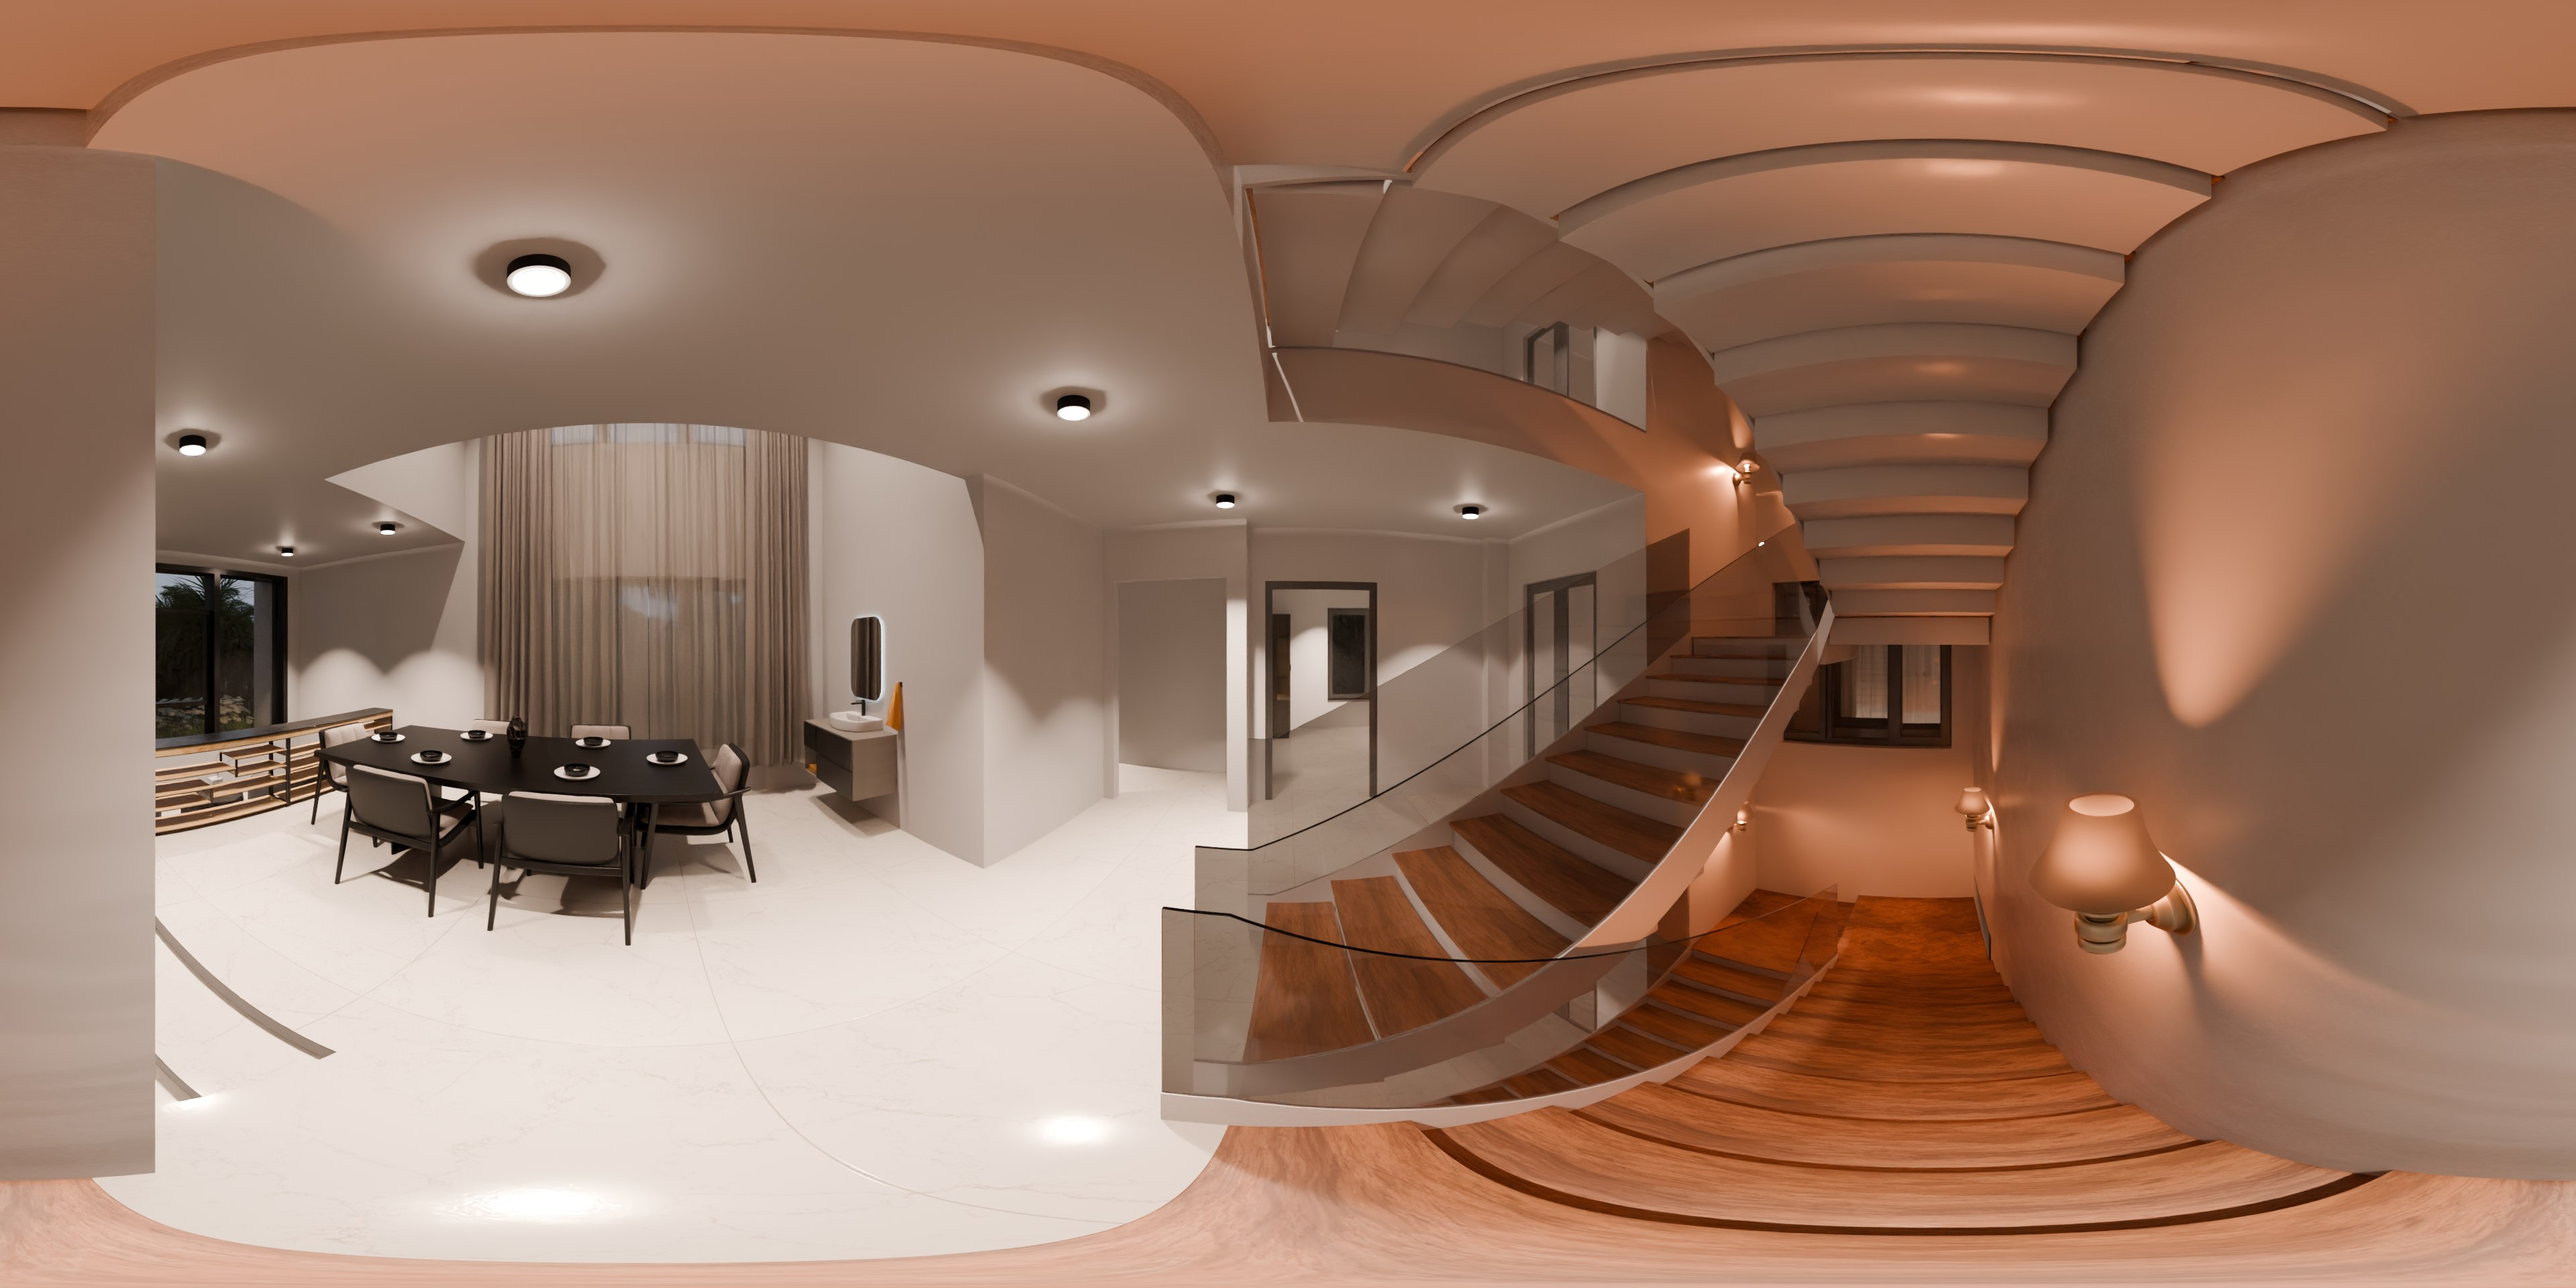
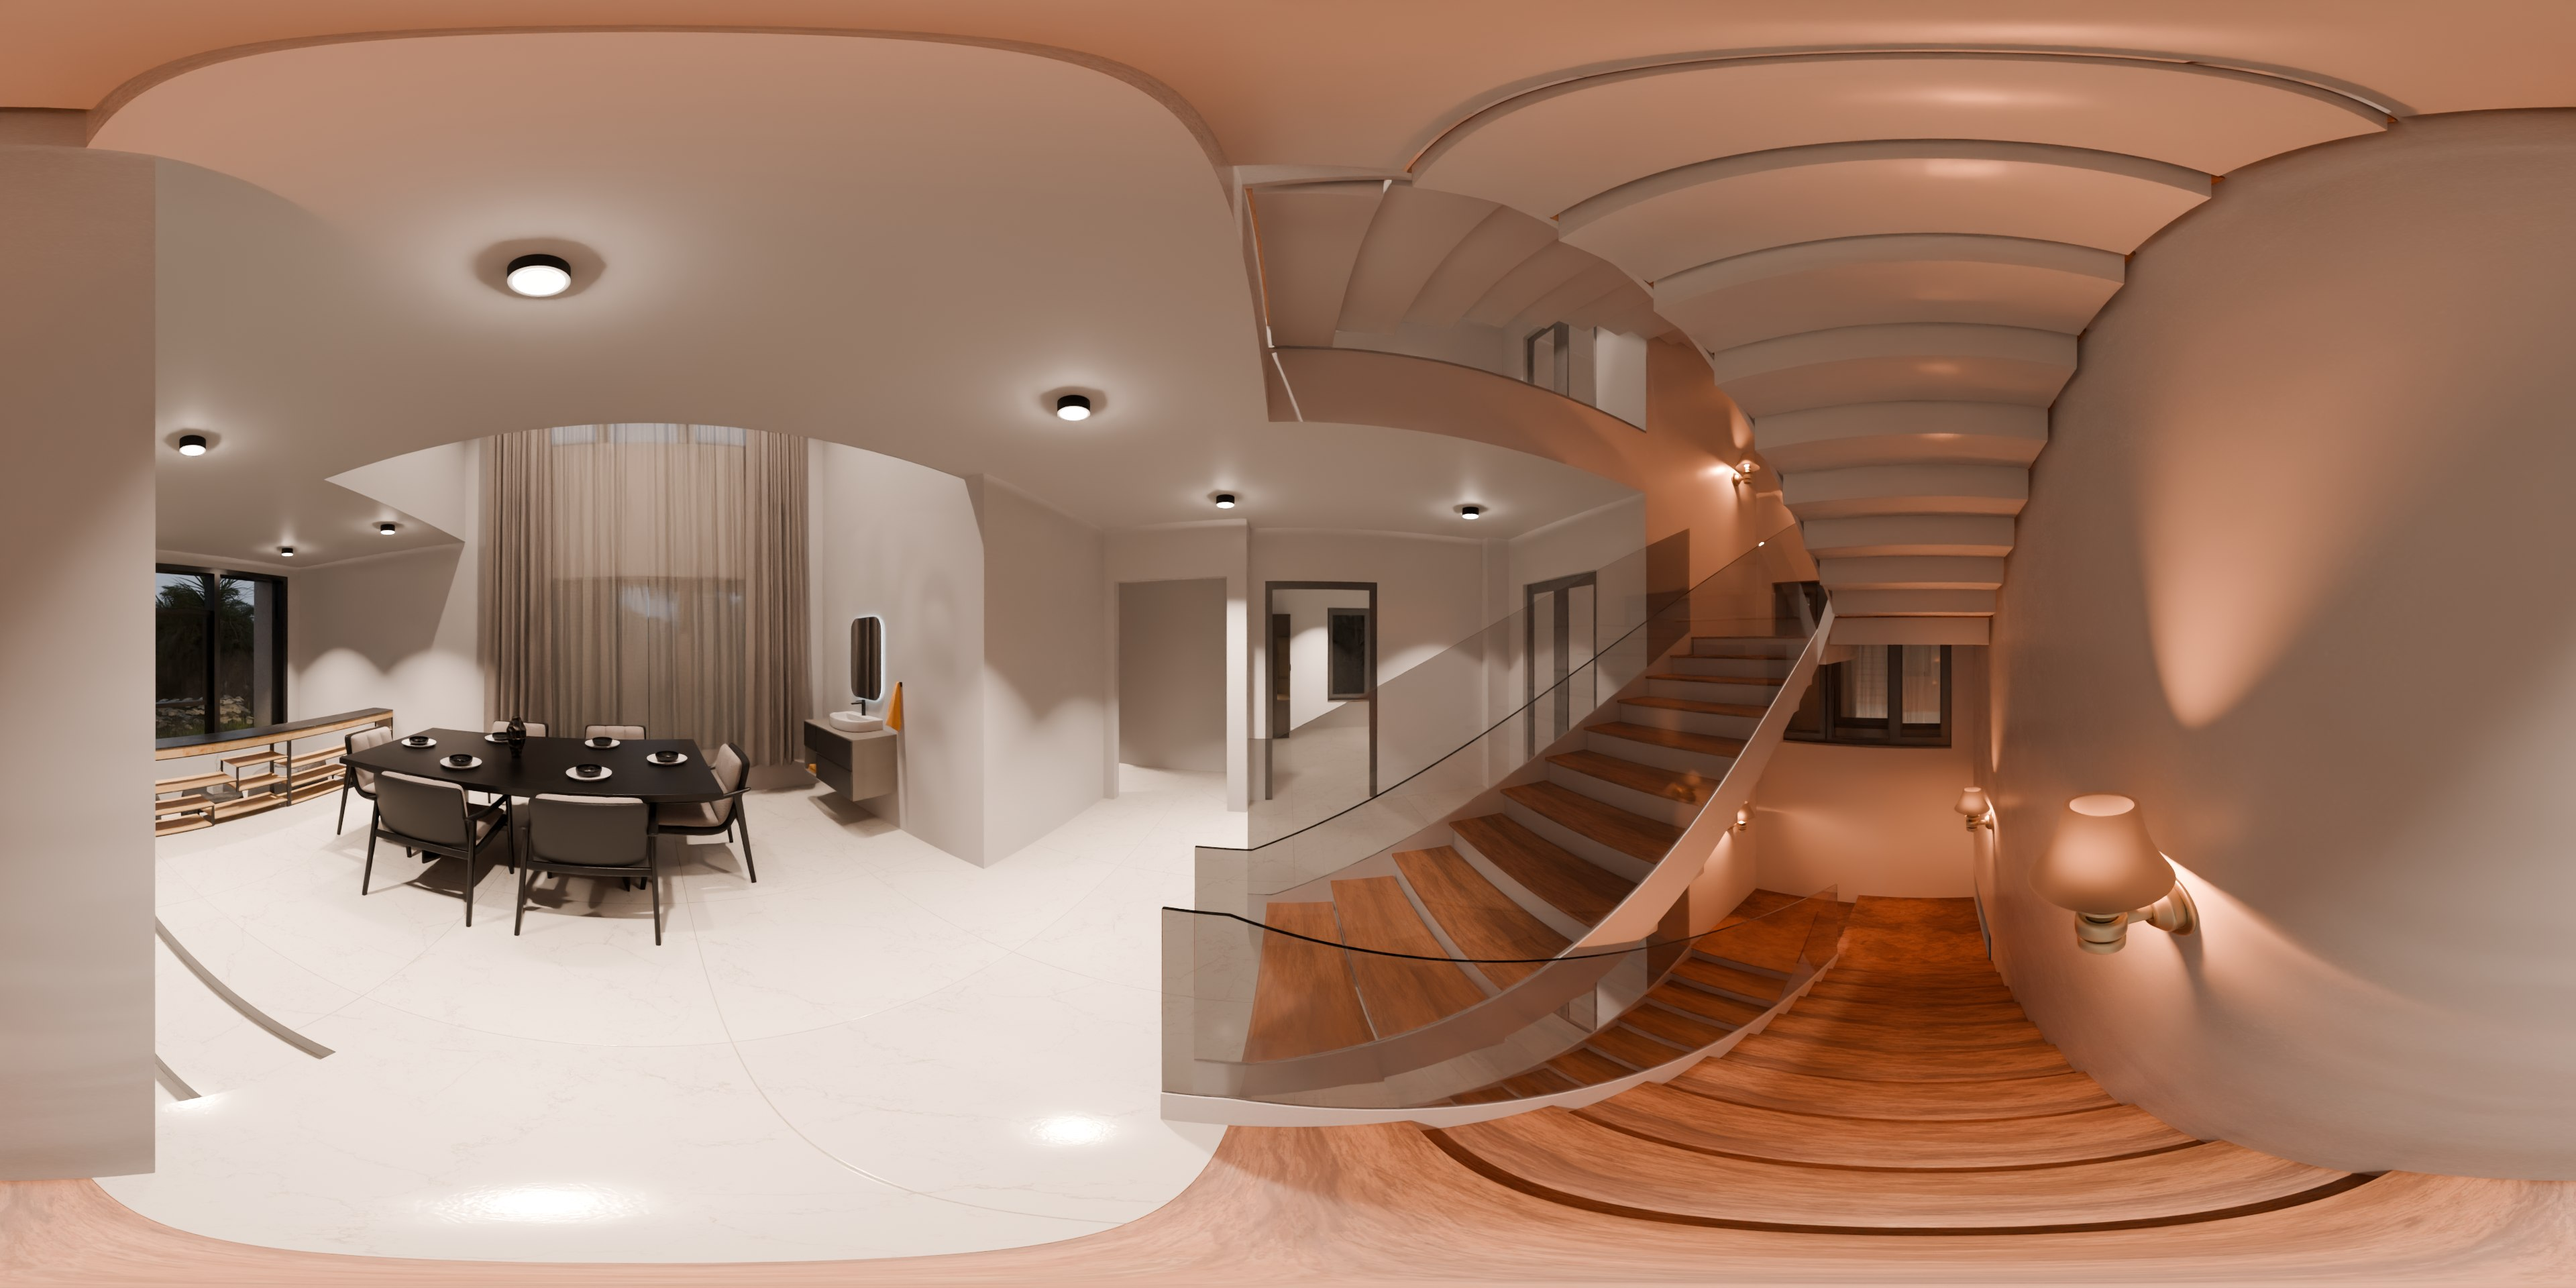
Re-renders (27-28 Oct): 24 first/second floor and terrace stair panoramas after bathroom tile, kitchen and dining ceiling changes

Changed region(s): [[0.0625, 0.5625, 0.2812, 0.7188], [0.4688, 0.6875, 0.5938, 0.8125]]

diff --git a/sw.js b/sw.js
@@ -2,7 +2,7 @@
    Pages & data: network first (so updates show up), falling back to cache when offline.
    Panoramas, icons and the A-Frame library: cache first (they rarely change, and they're big).
    Bump CACHE when you want every installed app to drop its old cache. */
-const CACHE = 'arch360-v10';
+const CACHE = 'arch360-v11';
 const SHELL = ['./', './index.html', './tour.html', './tour_data.js', './manifest.json',
                './images/logo.png', './images/icon-192.png', './images/icon-512.png'];
 
